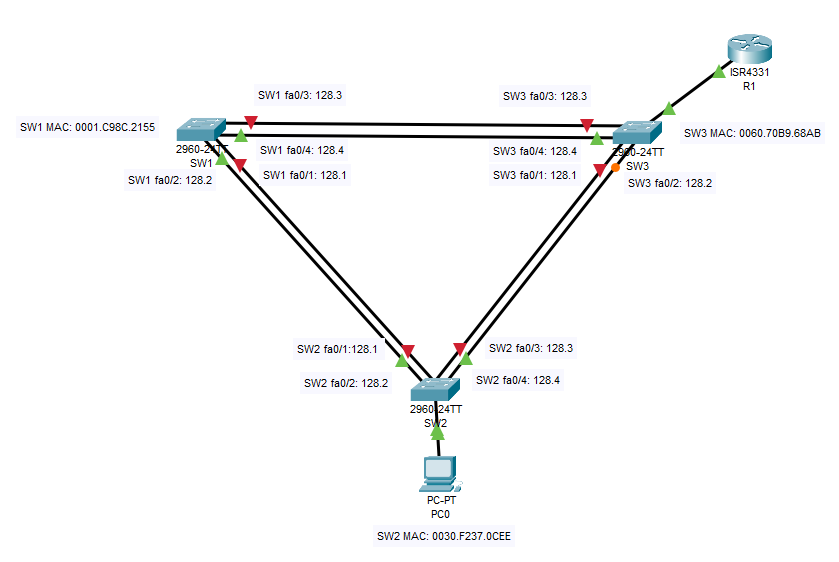
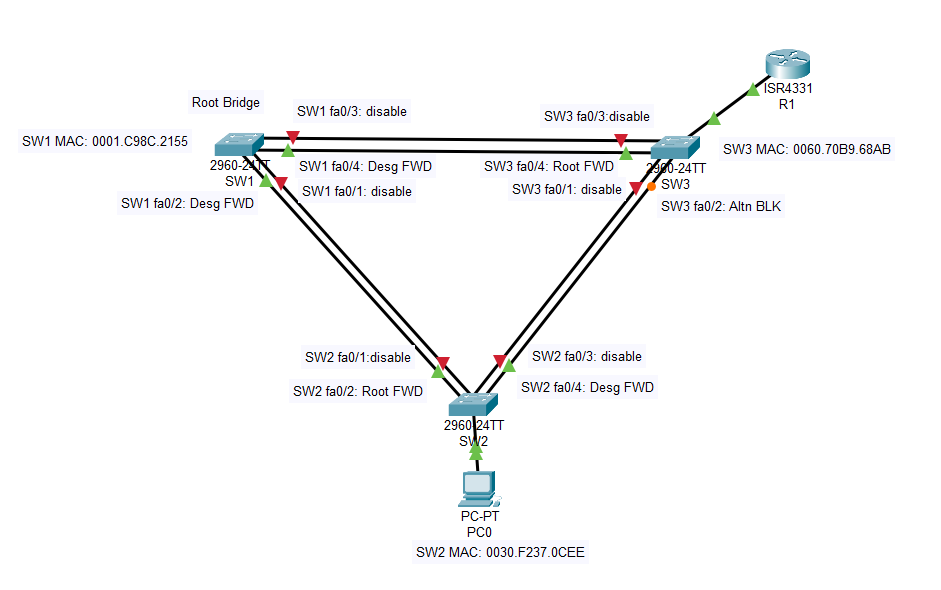
lab07_11

Changed region(s): [[0.0, 0.0605, 0.9917, 0.968], [0.1859, 0.1512, 0.2789, 0.1815]]

diff --git a/labs/lab07/README.md b/labs/lab07/README.md
@@ -352,7 +352,30 @@ SW3#
 |SW3| 0060.70B9.68AB|32769|
 
 Поэтому коммутатор SW1 был выбран корневым мостом.
-* В схему ниже запишем роль и состояние (Sts) активных портов на каждом коммутаторе в топологии.
+
+Различают роли портов и состояния портов.  
+Роли портов:
+ *   Корневой порт (Root port) — один порт на коммутаторе 
+с наименьшей стоимостью для достижения 
+корневого моста.
+*   Назначенный порт (Designated) — выбирается для каждого 
+сегмента (каждого канала), исходя из стоимости 
+возврата к корневому мосту для любой стороны канала.
+*   Альтернативный порт (Altn) — резервный порт (только RSTP) для назначенного порта, если 
+другая сторона не является корневым портом.
+*   Резервный порт — запасной порт (только RSTP) для корневого порта.
+
+Состояния портов:
+
+
+ * Блокировка (blocking) - блокированный порт не шлет ничего. Это состояние предназначено, как говорилось выше, для предотвращения петель в сети. Блокированный порт, тем не менее, слушает BPDU (чтобы быть в курсе событий, это позволяет ему, когда надо, разблокироваться и начать работать)
+* Прослушивание (listening) - порт слушает и начинает сам отправлять BPDU, кадры с данными не отправляет.
+* Обучение (learning) - порт слушает и отправляет BPDU, а также вносит изменения в CAM- таблицу, но данные не перенаправляет.
+* Пересылка (forwarding) - этот может все: и посылает\принимает BPDU, и с данными оперирует, и участвует в поддержании таблицы mac-адресов. То есть это обычное состояние рабочего порта.
+* Отключен (disabled) - состояние administratively down, отключен командой shutdown. Понятное дело, ничего делать не может вообще, пока вручную не включат.
+
+
+В схему ниже запишем роль и состояние (Sts) активных портов на каждом коммутаторе в топологии.
 
 ![](Топология_07_4.PNG)
 
@@ -382,7 +405,7 @@ SW3#
     * Меньшего Bridge ID.
     * Меньшего Port ID. 
 
-    У корневого свича все порты — назначенные. 
+    У корневого свича все порты — назначенные, поскольку их стоимость минимальна и равна 0. 
 
 
 
